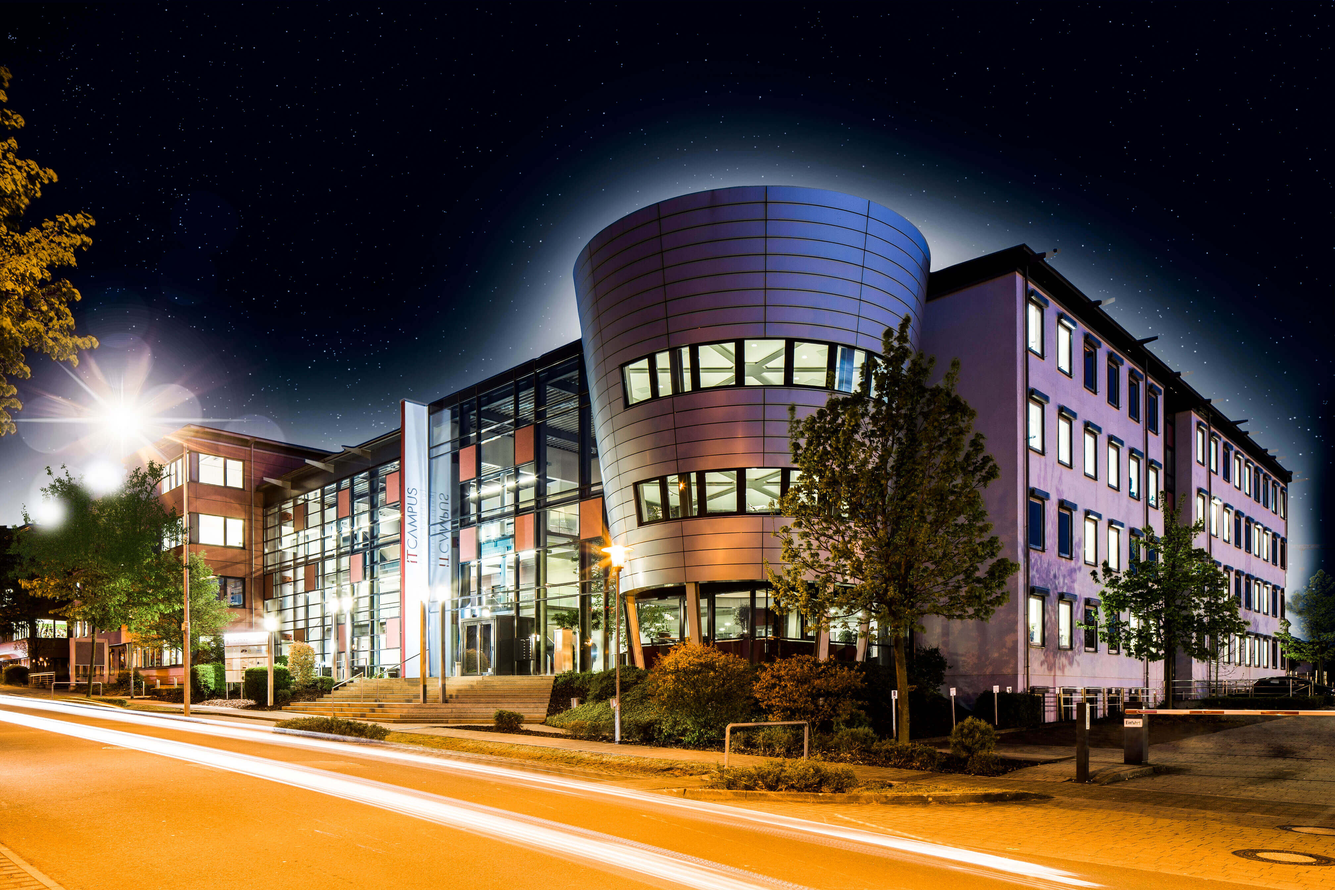
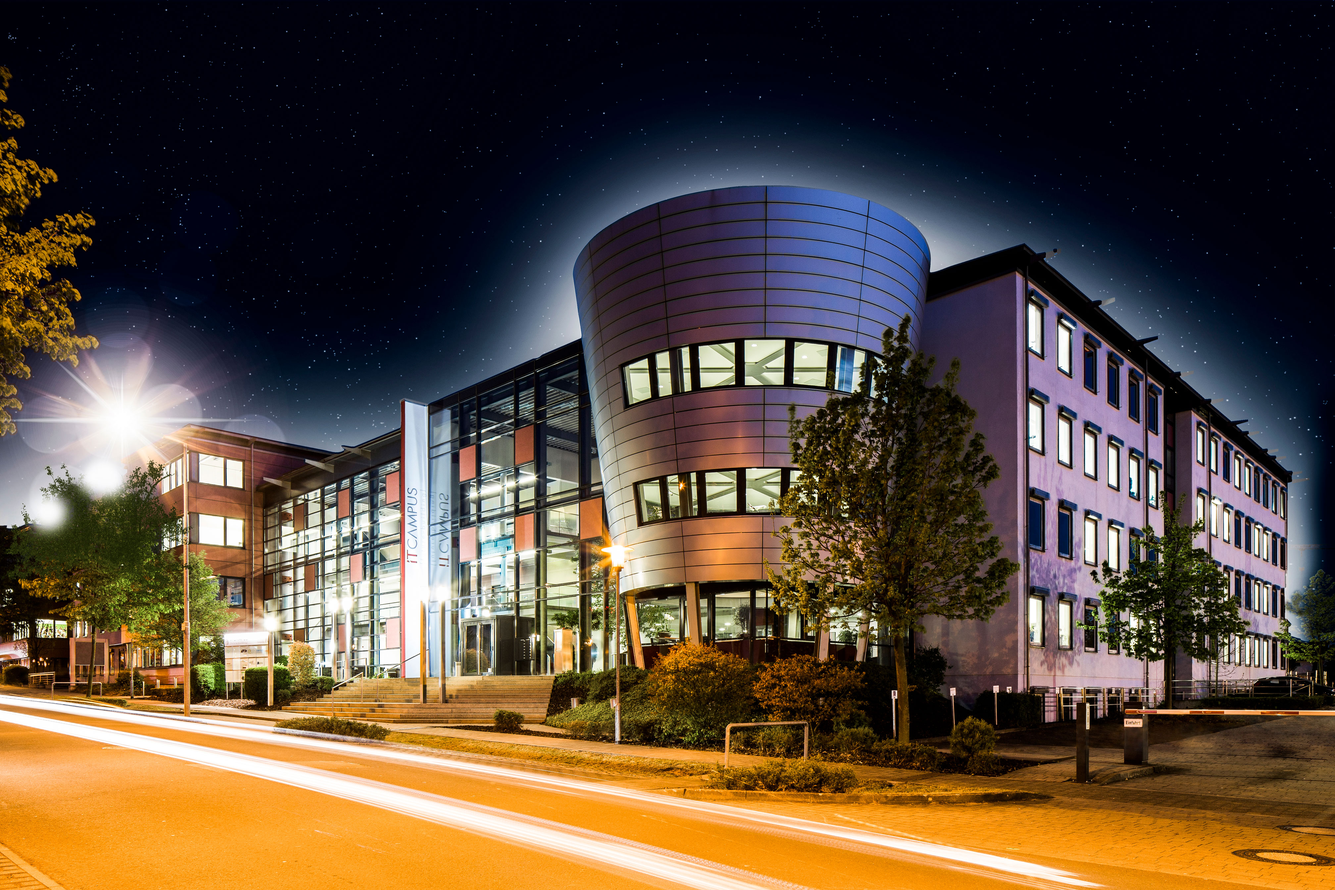
wireframes for siteplan Mein Stein

diff --git a/stein_site_plan/index.html b/stein_site_plan/index.html
@@ -25,19 +25,41 @@
         <section>
             <h3>Site name</h3>
             <h4>Mein Stein</h4>
-            <p> 
-                I can add to the top of the site the note like following:
-                Here you will find information about handmade juwelery and accessories, made by Marina Kreibring 
-               out of natural stones and other materials. The focus is on the unique pieces and the craftsmanship involved.               
-            </p>
-        </section>
-        <section>
+
             <h3>Purpose</h3>
             <p>
                 This website provides general information about the 
                 handmade jewelry and accessories made by Marina Kreibring. 
                 The goal of the site is to invite new customers to explore our unique collection
                 and buy handmade pieces.           
+            </p>
+
+            <h3>Project Description</h3>
+            <p>I will design and build an e-commerce website for my small handmade jewelry business that I run with my daughter. 
+                The website will showcase our products — including earrings, bracelets, chokers, and other gemstone 
+                accessories — and allow customers to browse, learn about the materials, and place orders. The project will 
+                include planning, design, development, product photography, content creation, and publishing the site. 
+            </p>
+            
+            <h3>Expected Outcomes</h3>
+            <p>
+                Apply web development and e-commerce design principles.
+                Learn about small-business branding, online product presentation, and basic marketing.
+                Build a working prototype or live version of a real-world project that supports our family business.
+                Document the full process (from concept to launch) to demonstrate professional project management skills.
+            </p>
+        </section>
+        <section>
+            <h3>Proposed stack</h3>
+            <p>
+                <ul>
+                    <li>Frontend: React + TypeScript</li>
+                    <li>Backend: ASP.NET Core Web API</li>
+                    <li>Database: PostgreSQL or SQL Server</li>
+                    <li>ORM: Entity Framework Core</li>
+                    <li>Styling: Tailwind CSS</li>
+                    <li>Version control: Git + GitHub</li>
+                </ul>          
             </p>
         </section>
         <section>
@@ -46,6 +68,8 @@
             <img src="images/logo1.png" alt="sample logo 1">
             <img src="images/logo2.png" alt="sample logo 2">
             <img src="images/logo3.png" alt="sample logo 3">
+            <img src="images/logo4.webp" alt="sample logo 4">
+            <img src="images/logo5.png" alt="sample logo 5">
         </section>
     </main>
     <footer>

diff --git a/chamber/discover.html b/chamber/discover.html
@@ -77,7 +77,7 @@
         </div>
         <div class="discover rev">             
             <picture>
-                <img src="images/placeholder.jpg" data-src="images/Stiftskirche-Kaiserslautern.webp" alt="Stiftskirche in Kaiserslautern">
+                <img src="images/placeholder.jpg" data-src="images/kaiserslautern_stiftskirche.webp" alt="Stiftskirche in Kaiserslautern">
             </picture>
             <p>
                 The collegiate church of St. Martin and St. Mary - Stiftkirche - is the oldest church in Kaiserslautern.
